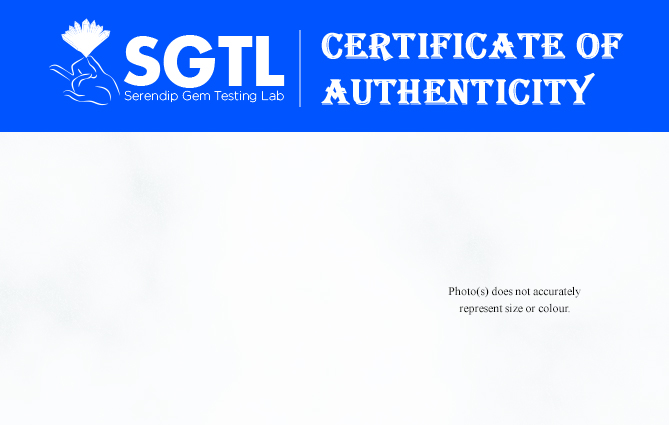
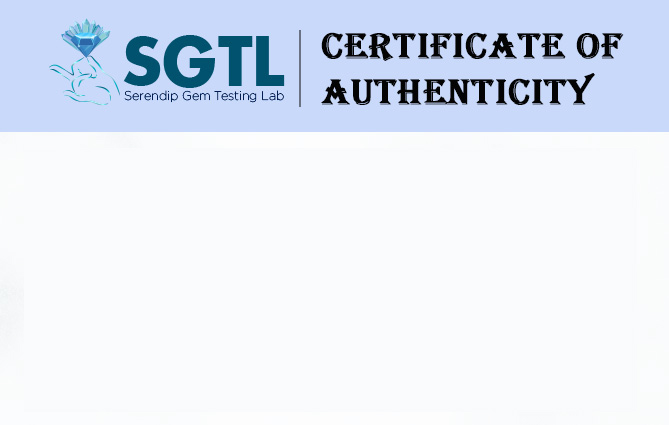
Card template update

diff --git a/src/app/pages/pdf-generation/pdf-generation-card/pdf-generation-card.component.ts b/src/app/pages/pdf-generation/pdf-generation-card/pdf-generation-card.component.ts
@@ -253,7 +253,10 @@ export class PdfGenerationCardComponent implements OnInit {
     // doc.setFontSize(5)
     // let gemologistName = this.cardContext.gemologistName
     // doc.text(gemologistName, 6, 4.85, { align: "center" });
-    console.log(doc.getFontList())
+    doc.setFontSize(4);
+    doc.setFont("times", "regular");
+    doc.text("Photo(s) does not accurately represent size or colour.", 6.55, 3.8, { align: "center", maxWidth:2});
+    // console.log(doc.getFontList())
   }
 
   toggleIncludeComment() {
